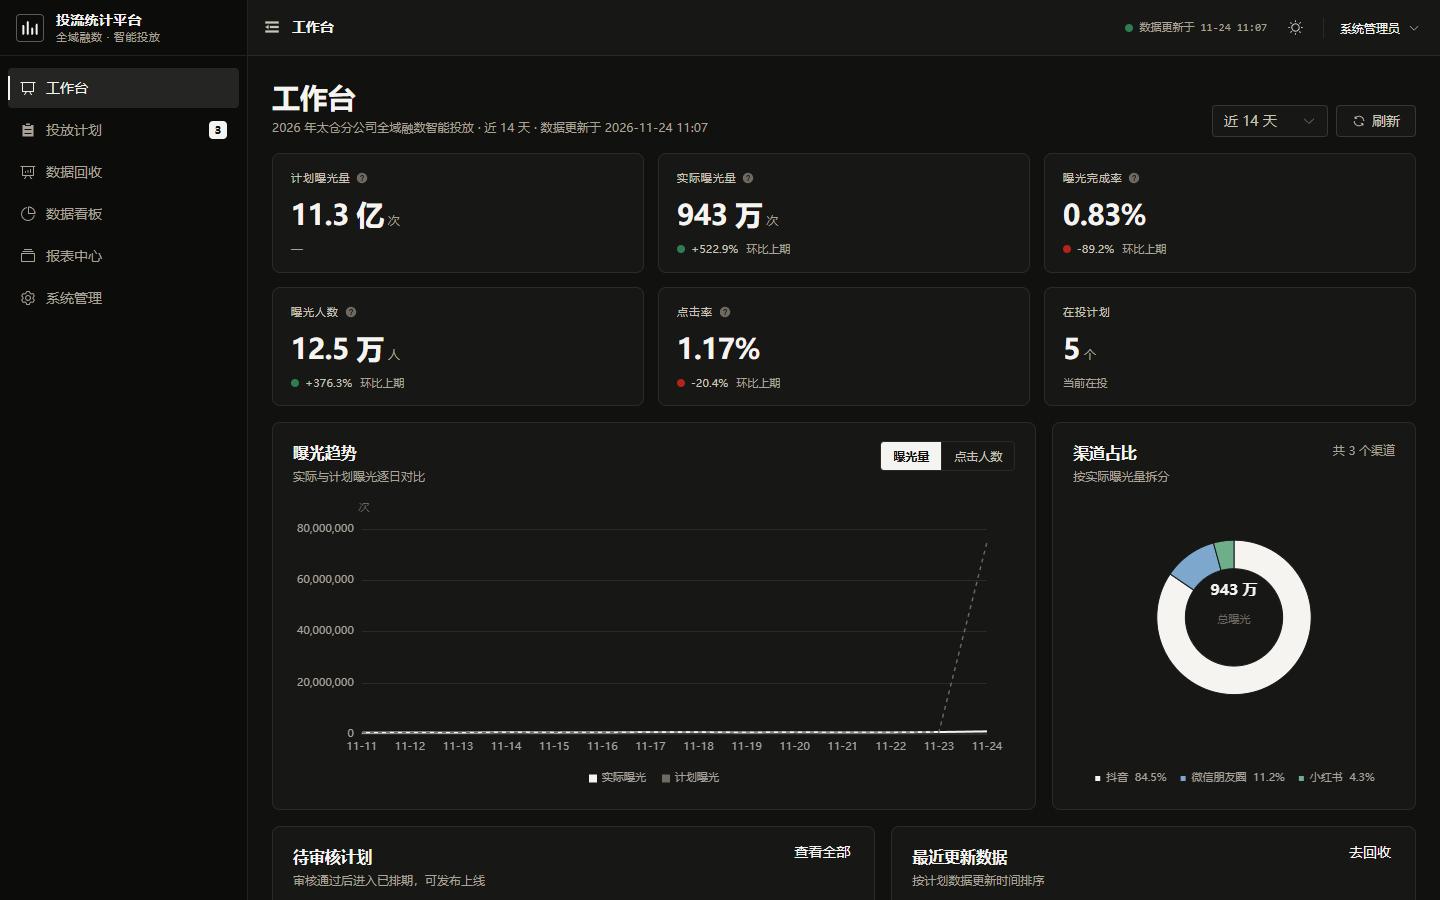
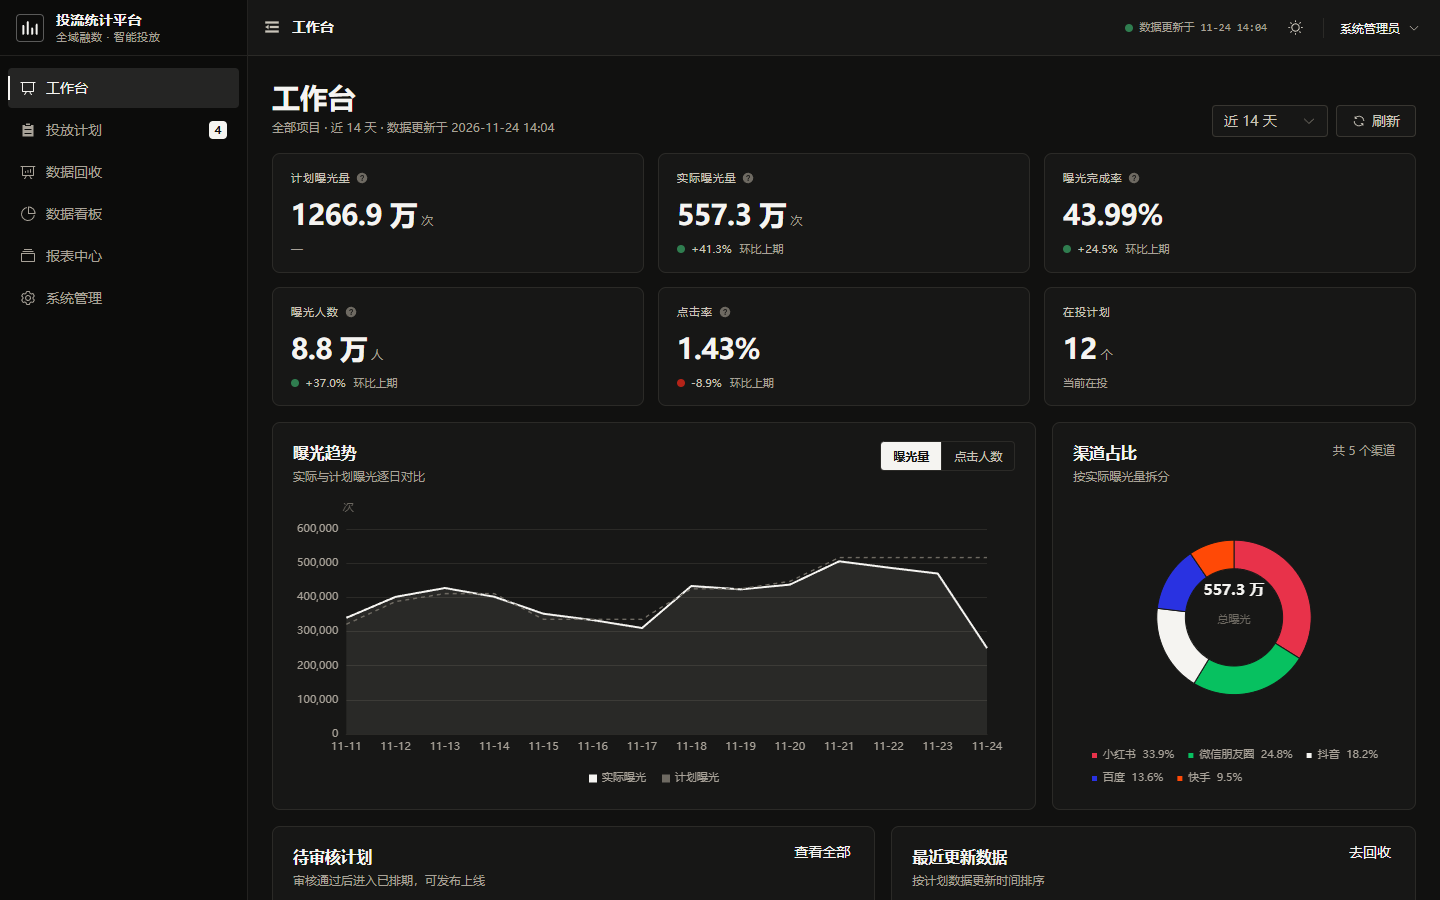
环形图标显示优化

diff --git a/src/views/board/index.vue b/src/views/board/index.vue
@@ -145,6 +145,7 @@ import type {
 import { lastNDays } from '@/utils/date'
 import { abbrNumber, formatNumber, formatPercent } from '@/utils/format'
 import { barOption, chartColors, donutOption, hbarOption, lineOption } from '@/utils/chart'
+import { CHANNEL_META } from '@/constants'
 import type { EChartsOption } from 'echarts'
 
 
@@ -262,9 +263,14 @@ const trendOption = computed(() => {
 
 const channelOption = computed(() => {
   void chartColors()
-  const items = channels.value.map((item) => ({
+  const palette = chartColors().palette
+  const items = channels.value.map((item, index) => ({
     name: item.dimName,
     value: Number(item.value),
+    color:
+      item.dimKey === 'douyin'
+        ? chartColors().ink
+        : CHANNEL_META[item.dimKey as keyof typeof CHANNEL_META]?.color ?? palette[index],
   }))
   const total = items.reduce((sum, item) => sum + item.value, 0)
   return donutOption(items, {
@@ -502,9 +508,9 @@ onMounted(loadAll)
   color: var(--color-text-tertiary);
 }
 .lg-dot {
-  width: 7px;
-  height: 7px;
-  border-radius: 2px;
+  width: 8px;
+  height: 8px;
+  border-radius: 50%;
   display: inline-block;
 }
 .lg-dot.done {

diff --git a/src/utils/chart.ts b/src/utils/chart.ts
@@ -82,9 +82,9 @@ export function lineOption(xData: string[], series: LineSeriesInput[], unit = ''
     legend: {
       show: series.length > 1,
       bottom: 0,
-      icon: 'rect',
-      itemWidth: 8,
-      itemHeight: 8,
+      icon: 'circle',
+      itemWidth: 9,
+      itemHeight: 9,
       itemGap: 16,
       textStyle: { color: colors.axis, fontSize: 11 },
     },
@@ -156,7 +156,7 @@ export function barOption(
     legend: {
       show: series.length > 1,
       bottom: 0,
-      icon: 'rect',
+      icon: 'circle',
       itemWidth: 8,
       itemHeight: 8,
       textStyle: { color: colors.axis, fontSize: 11 },
@@ -271,11 +271,11 @@ export function donutOption(
       left: 'center',
       bottom: 0,
       top: 'auto',
-      icon: 'rect',
-      itemWidth: 7,
-      itemHeight: 7,
-      itemGap: 12,
-      textStyle: { color: colors.axis, fontSize: 11 },
+      icon: 'circle',
+      itemWidth: 10,
+      itemHeight: 10,
+      itemGap: 14,
+      textStyle: { color: colors.axis, fontSize: 11.5 },
       formatter: (name: string) => {
         const item = items.find((it) => it.name === name)
         if (!item) return name

diff --git a/src/views/dashboard/index.vue b/src/views/dashboard/index.vue
@@ -162,6 +162,7 @@ import type { CampaignListItem, DashboardSummary, DimensionValue, TrendPoint } f
 import { lastNDays } from '@/utils/date'
 import { abbrNumber, formatNumber, formatPercent } from '@/utils/format'
 import { chartColors, donutOption, lineOption } from '@/utils/chart'
+import { CHANNEL_META } from '@/constants'
 
 const router = useRouter()
 
@@ -300,9 +301,14 @@ const trendOption = computed(() => {
 
 const channelOption = computed(() => {
   void chartColors()
-  const items = channelItems.value.map((item) => ({
+  const palette = chartColors().palette
+  const items = channelItems.value.map((item, index) => ({
     name: item.dimName,
     value: Number(item.value),
+    color:
+      item.dimKey === 'douyin'
+        ? chartColors().ink
+        : CHANNEL_META[item.dimKey as keyof typeof CHANNEL_META]?.color ?? palette[index],
   }))
   const total = items.reduce((sum, item) => sum + item.value, 0)
   return donutOption(items, {

diff --git a/src/constants/index.ts b/src/constants/index.ts
@@ -31,10 +31,10 @@ export const CHANNEL_META: Record<
   { label: string; short: string; color: string; soft: string }
 > = {
   douyin: { label: '抖音', short: '抖', color: '#161823', soft: '#EDEDEF' },
-  wechat: { label: '微信', short: '微', color: '#0C9D58', soft: '#E7F6EE' },
+  wechat: { label: '微信', short: '微', color: '#07C160', soft: '#E7F6EE' },
   xiaohongshu: { label: '小红书', short: '红', color: '#E8324A', soft: '#FDECEF' },
-  kuaishou: { label: '快手', short: '快', color: '#E5480A', soft: '#FDECE6' },
-  baidu: { label: '百度', short: '百', color: '#2B43C9', soft: '#EBEEFC' },
+  kuaishou: { label: '快手', short: '快', color: '#FF4906', soft: '#FDECE6' },
+  baidu: { label: '百度', short: '百', color: '#2932E1', soft: '#EBEEFC' },
 }
 
 export const CHANNEL_OPTIONS = (Object.keys(CHANNEL_META) as ChannelCode[]).map((key) => ({

diff --git a/src/components/ChannelIcon.vue b/src/components/ChannelIcon.vue
@@ -31,7 +31,7 @@ const ICONS: Record<string, string> = {
 const COLORS: Record<string, string> = {
   "douyin": "currentColor",
   "wechat": "#07C160",
-  "xiaohongshu": "#FF2442",
+  "xiaohongshu": "#FF0033",
   "kuaishou": "#FF4906",
   "baidu": "#2932E1"
 }
@@ -64,7 +64,7 @@ const fallback = computed(() => meta.value.short ?? label.value.slice(0, 1))
 .channel-icon.is-xiaohongshu {
   box-sizing: border-box;
   padding: 2px;
-  background: #ff2442;
+  background: #ff0033;
   border-radius: var(--radius-xs);
 }
 .channel-icon svg {
